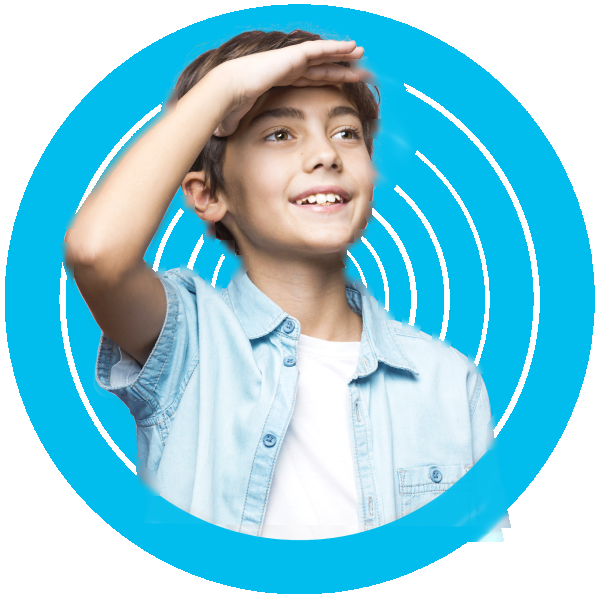
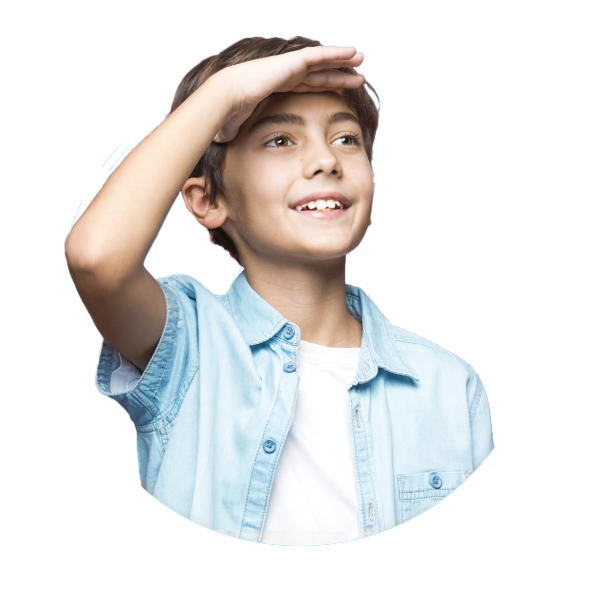
Animation: about us

diff --git a/js/main.js b/js/main.js
@@ -146,45 +146,93 @@ $('.reviews-slider').slick({
             y: mouseY * 0.01, 
             ease: 'power2.out' 
             },);
-                
-        gsap.to(
-        '.preview__avatar-cirlces--big',
+    })
+        
+}
+parallax()
+function rotatePreview(){
+    gsap.to(
+'.preview__avatar-cirlces--big',
+{
+    rotation: 360,
+    duration: 10,
+    repeat: -1,
+    ease: "linear"
+    },'<');
+
+gsap.to(
+    '.preview__avatar-cirlces--meduim',
+    {
+        rotation: -360,
+        duration: 10,
+        repeat: -1,
+        ease: "linear"
+        },'<');
+
+gsap.to(
+    '.preview__avatar-cirlces--small',
+    {
+        rotation: 360,
+        duration: 10,
+        repeat: -1,
+        ease: "linear"
+        },'<');
+
+gsap.to(
+    '.preview__avatar-cirlces--very-small',
+    {
+        rotation: -360,
+        duration: 10,
+        repeat: -1,
+        ease: "linear"
+        },'<');
+}
+rotatePreview()
+
+function rotateAboutUsFirst(){
+    gsap.to(
+        '.about-us__avatar-cirlces--large',
         {
             rotation: 360,
             duration: 10,
             repeat: -1,
             ease: "linear"
             },'<');
-
-            gsap.to(
-                '.preview__avatar-cirlces--meduim',
-                {
-                    rotation: -360,
-                    duration: 10,
-                    repeat: -1,
-                    ease: "linear"
-                    },'<');
-
-                    gsap.to(
-                        '.preview__avatar-cirlces--small',
-                        {
-                            rotation: 360,
-                            duration: 10,
-                            repeat: -1,
-                            ease: "linear"
-                            },'<');
-
-                            gsap.to(
-                                '.preview__avatar-cirlces--very-small',
-                                {
-                                    rotation: -360,
-                                    duration: 10,
-                                    repeat: -1,
-                                    ease: "linear"
-                                    },'<');
-    })
         
+    gsap.to(
+        '.about-us__avatar-cirlces--big',
+        {
+            rotation: 360,
+            duration: 10,
+            repeat: -1,
+            ease: "linear"
+            },'<');
+        
+        gsap.to(
+            '.about-us__avatar-cirlces--meduim',
+            {
+                rotation: -360,
+                duration: 10,
+                repeat: -1,
+                ease: "linear"
+                },'<');
+        
+        gsap.to(
+            '.about-us__avatar-cirlces--small',
+            {
+                rotation: 360,
+                duration: 10,
+                repeat: -1,
+                ease: "linear"
+                },'<');
+        
+        gsap.to(
+            '.about-us__avatar-cirlces--very-small',
+            {
+                rotation: -360,
+                duration: 10,
+                repeat: -1,
+                ease: "linear"
+                },'<');
 }
-parallax()
-
-    
+rotateAboutUsFirst()

diff --git a/index.html b/index.html
@@ -104,9 +104,18 @@
         </section>
         <section class="about-us aims">
             <div class="container">
-                <div class="about-us__content">
-                    <div class="about-us__img">
-                        <img src="./img/about-us/boy.png" alt="">
+                <div class="about-us__content">                    
+                    <div class="about-us__avatar">
+                        <div class="about-us__avatar-wrapper-circles">
+                            <div class="about-us__avatar-cirlces about-us__avatar-cirlces--large"><img src="/img/about-us/blue-circles-large.png" alt=""></div>
+                            <div class="about-us__avatar-cirlces about-us__avatar-cirlces--big"><img src="./img/about-us/blue-circles-big.png" alt=""></div>
+                            <div class="about-us__avatar-cirlces about-us__avatar-cirlces--meduim"><img src="./img/about-us/blue-circles-meduim.png" alt=""></div>
+                            <div class="about-us__avatar-cirlces about-us__avatar-cirlces--small"><img src="./img/about-us/blue-circles-small.png" alt=""></div>
+                            <div class="about-us__avatar-cirlces about-us__avatar-cirlces--very-small"><img src="./img/about-us/blue-circles-very-small.png" alt=""></div>
+                        </div>
+                        <div class="about-us__avatar-img">
+                            <img src="./img/about-us/boy.png" alt="">
+                        </div>
                     </div>
                     <div class="about-us__info" id="about-us__info-1">
                         <div class="about-us__wrapper-title">

diff --git a/sass/main.css b/sass/main.css
@@ -351,9 +351,48 @@ select:-webkit-autofill:focus {
   flex-direction: row-reverse;
 }
 
-.about-us__img {
-  width: 600px;
-  height: 605px;
+.about-us__avatar {
+  position: relative;
+  width: 590px;
+  height: 590px;
+}
+
+.about-us__avatar-img {
+  position: absolute;
+  top: 0;
+  left: 0;
+}
+
+.about-us__avatar-wrapper-circles {
+  position: absolute;
+  top: 0;
+  left: 0;
+  width: 100%;
+}
+
+.about-us__avatar-cirlces {
+  position: absolute;
+  top: 0;
+  left: 0;
+}
+.about-us__avatar-cirlces--large {
+  width: 100%;
+}
+.about-us__avatar-cirlces--big {
+  width: 77%;
+  transform: translate(15%, 15%);
+}
+.about-us__avatar-cirlces--meduim {
+  width: 57%;
+  transform: translate(38%, 38%);
+}
+.about-us__avatar-cirlces--small {
+  width: 44%;
+  transform: translate(64%, 64%);
+}
+.about-us__avatar-cirlces--very-small {
+  width: 30%;
+  transform: translate(115%, 115%);
 }
 
 .about-us__info {

diff --git a/sass/section/_about-us.scss b/sass/section/_about-us.scss
@@ -15,9 +15,46 @@
         flex-direction: row-reverse;
     }
 }
-.about-us__img {
-    width: 600px;
-    height: 605px;
+.about-us__avatar {
+    position: relative;
+    width: 590px;
+    height: 590px;
+}
+.about-us__avatar-img {
+    position: absolute;
+    top: 0;
+    left: 0;
+}
+.about-us__avatar-wrapper-circles{
+    position: absolute;
+    top: 0;
+    left: 0;
+    width: 100%;
+}
+.about-us__avatar-cirlces{
+    position: absolute;
+    top: 0;
+    left: 0;
+    &--large{
+        width: 100%;
+
+    }
+    &--big{
+        width: 77%;  
+        transform: translate(15%, 15%); 
+    }
+    &--meduim{
+        width: 57%;
+        transform: translate(38%, 38%); 
+    }
+    &--small{
+        width: 44%;
+        transform: translate(64%, 64%);  
+    }
+    &--very-small{
+        width: 30%;
+        transform: translate(115%, 115%); 
+    }
 }
 .about-us__info {
     width: 601px;
